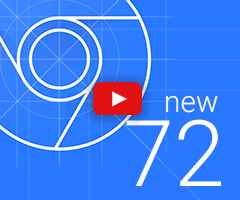
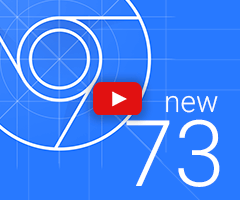
update whatsnew for m73
Bug: 923931
Commit-Queue: Kayce Basques <kayce@google.com>
Auto-Submit: Kayce Basques <kayce@google.com>
Cr-Original-Commit-Position: refs/heads/master@{#624847}
Cr-Mirrored-From: https://chromium.googlesource.com/chromium/src
Cr-Mirrored-Commit: 2013f94c8d8657cb84c249265a12865fda8ebe33

Changed region(s): [[0.7292, 0.63, 0.9333, 0.96], [0.7292, 0.63, 0.7875, 0.72]]

diff --git a/blink/renderer/devtools/front_end/help/ReleaseNoteText.js b/blink/renderer/devtools/front_end/help/ReleaseNoteText.js
@@ -13,6 +13,45 @@ const commandMenuShortcut = Host.isMac() ? 'Command + Shift + P' : 'Control + Sh
 /** @type {!Array<!Help.ReleaseNote>} */
 Help.releaseNoteText = [
   {
+    version: 15,
+    header: 'Highlights from the Chrome 73 update',
+    highlights: [
+      {
+        title: 'Logpoints',
+        subtitle: 'Log messages to the Console without cluttering up your code with console.log() calls.',
+        link: 'https://developers.google.com/web/updates/2019/01/devtools#logpoints',
+      },
+      {
+        title: 'Detailed tooltips in Inspect Mode',
+        subtitle: 'When inspecting a node, DevTools now shows an expanded tooltip containing text, ' +
+            'color contrast, and box model information.',
+        link: 'https://developers.google.com/web/updates/2019/01/devtools#inspect',
+      },
+      {
+        title: 'Export code coverage data',
+        subtitle: 'The Coverage tab now supports exporting coverage data as JSON.',
+        link: 'https://developers.google.com/web/updates/2019/01/devtools#coverage',
+      },
+      {
+        title: 'Navigate the Console with the keyboard',
+        subtitle: 'Press Shift+Tab to focus the last message and then use the arrow keys to navigate.',
+        link: 'https://developers.google.com/web/updates/2019/01/devtools#keyboard',
+      },
+      {
+        title: 'Save custom geolocation overrides',
+        subtitle: 'Click Manage in the Sensors tab or open Settings > Geolocations.',
+        link: 'https://developers.google.com/web/updates/2019/01/devtools#geolocation',
+      },
+      {
+        title: 'Code folding',
+        subtitle: 'Go to Settings > Preferences > Sources and enable Code Folding to fold ' +
+            'code in the Sources panel.',
+        link: 'https://developers.google.com/web/updates/2019/01/devtools#folding',
+      },
+    ],
+    link: 'https://developers.google.com/web/updates/2019/01/devtools',
+  },
+  {
     version: 14,
     header: 'Highlights from the Chrome 72 update',
     highlights: [
